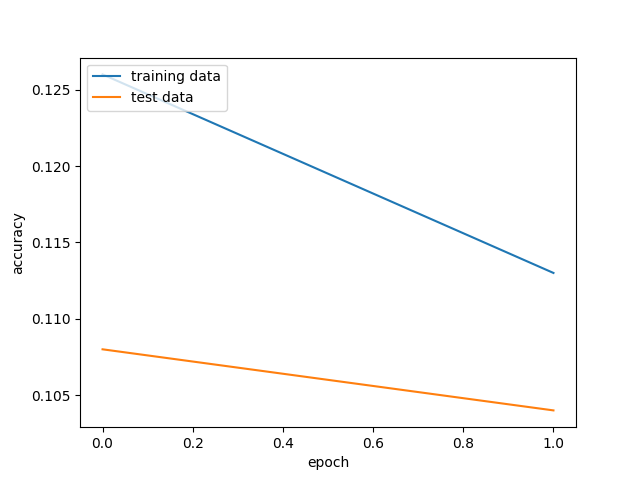
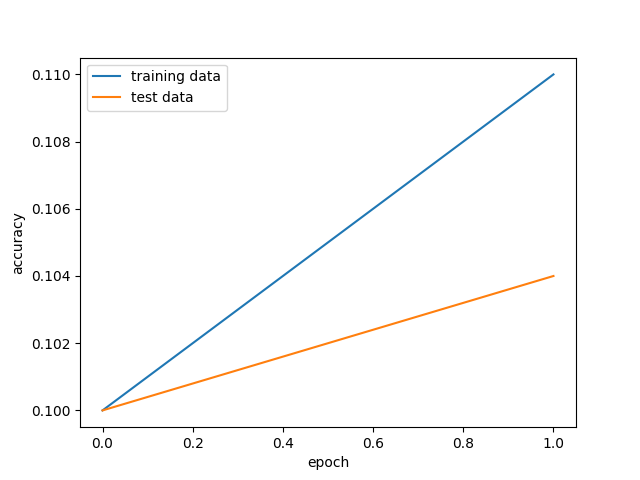
Modified network to run both strings in parallel

diff --git a/hammingdistanceclassifier/hdcrunner.py b/hammingdistanceclassifier/hdcrunner.py
@@ -20,22 +20,33 @@ def run():
 	class_count = control_str.shape[0]
 	hamming_dist_dataset = pd.read_csv("hammingdistanceclassifier/hammingdataall.csv").values
 	control_hamming_dist_dataset = np.array(hamming_dist_dataset)
-
 	label_pos = control_hamming_dist_dataset.shape[1] - 1
 
+	''' Split dataset amongst train, test, and valdiation set'''
 	train_data, test_data, validation_data = create_data_sets(control_hamming_dist_dataset, class_count)
+
+	''' Process Train set '''
 	train_labels = train_data[:, label_pos]
-	#Strip off labels and append bias col(of 1s) to input values for training data
-	train_data = np.append(train_data[:, 0:label_pos], np.ones((train_data.shape[0], 1)), axis=1)
+	# append source str to each training string to feed source and training strings in parallel
+	source_str_matrix = np.array([control_str, ] * train_data.shape[0])
+	train_data = np.append(train_data[:, 0:label_pos], source_str_matrix, axis=1)
+	# Strip off labels and append bias col(of 1s) to input values for training data
+	train_data = np.append(train_data, np.ones((train_data.shape[0], 1)), axis=1)
+	print("train data shape: ", train_data.shape)
 	training_labels_matrix = np.full((train_data.shape[0], class_count + 1), .1)
 
-
+	'''Create Test Set '''
 	test_labels = test_data[:, label_pos]
-	test_data = np.append(test_data[:, 0:label_pos], np.ones((test_data.shape[0], 1)), axis=1)
+	source_str_matrix = np.array([control_str, ] * test_data.shape[0])
+	test_data = np.append(test_data[:, 0:label_pos], source_str_matrix, axis=1) #remove label + add src str
+	test_data = np.append(test_data, np.ones((test_data.shape[0], 1)), axis=1) #add bias
+
+	# test_data = np.append(test_data[:, 0:label_pos], np.ones((test_data.shape[0], 1)), axis=1)
+
 
 	validation_data = validation_data[:, label_pos]
+	#TODO: come back
 	# validation_data = np.append(validation_data[:, 0:label_pos], np.ones((validation_data.shape[0], 1)), axis=1)
-	#TODO: fix ? ^
 
 	training_data_size = train_data.shape[0]
 	test_data_size = test_data.shape[0]

diff --git a/neuralnet.py b/neuralnet.py
@@ -172,7 +172,7 @@ class NeuralNet(object):
 					_output_layer_activations - _target_activations)
 
 			"""Calculate the error terms for hidden layers  bias" """  # slides Lecture 6 pg 37
-			# shape = [1 x 10] * [10 x 21] = [1 x 21]   but the last value will be zero -- this is for the bias
+			# shape = [1 x n] * [n x m] = [1 x m]   but the last value will be zero -- this is for the bias
 			delta_h_inner = np.dot(delta_o_values, self.output_layer_weights.T)  # needs to come before the weight
 			# updates
 			delta_h_values = _hidden_layer_activations * (1.0 - _hidden_layer_activations) * delta_h_inner

diff --git a/main.py b/main.py
@@ -16,7 +16,7 @@ def main():
 	#TODO: add sys arg
 	# train data model.
 	# if sys.argv.__contains__("-hdg"):
-	hdg.create_data(10, 1000, "hammingdistanceclassifier/hammingdata.csv")
+	# hdg.create_data(10, 1000, "hammingdistanceclassifier/hammingdata.csv")
 
 	hdcrunner.run()
 
